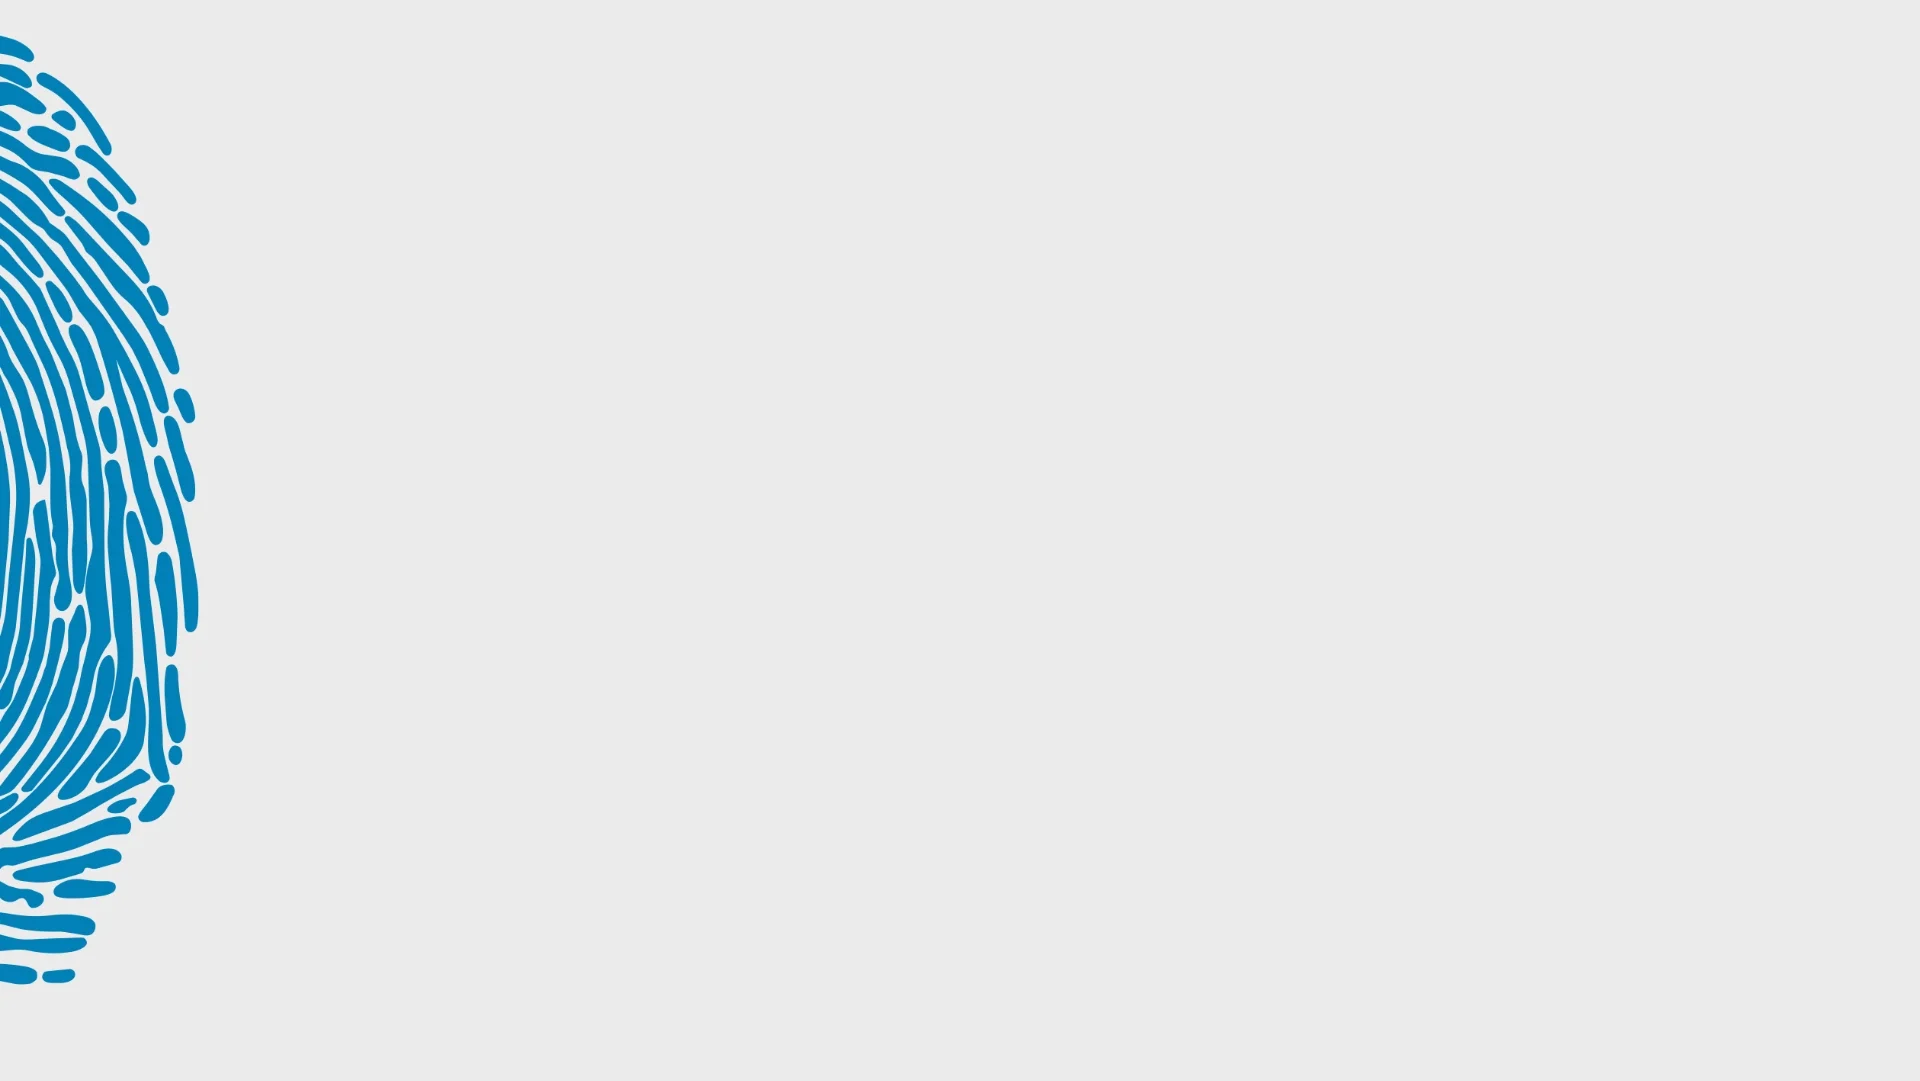
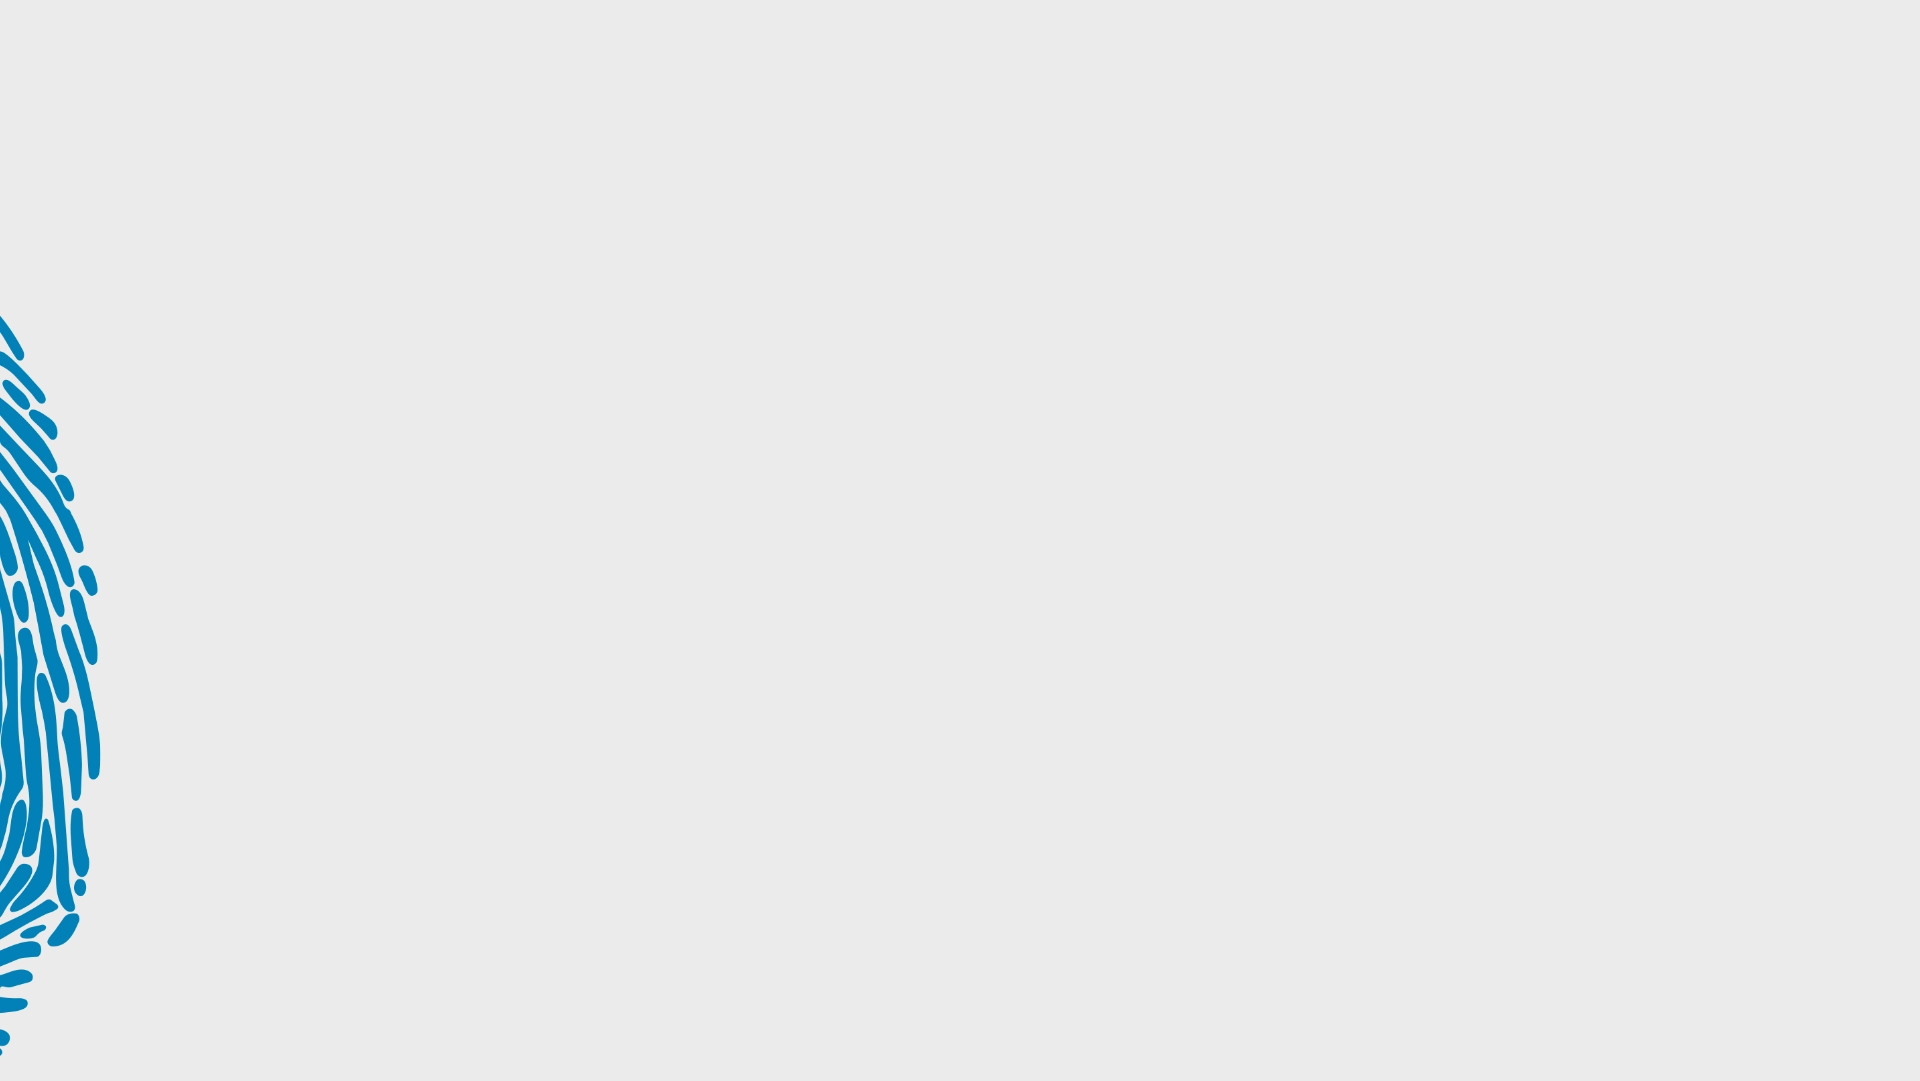
v6

Changed region(s): [[0.0, 0.0305, 0.125, 0.9463]]

diff --git a/index.html b/index.html
@@ -4,7 +4,7 @@
     <meta charset="UTF-8">
     <meta name="viewport" content="width=device-width, initial-scale=1.0">
     <title>FliParaíba</title>
-    <link rel="stylesheet" href="style.css?v=20261105-1">
+    <link rel="stylesheet" href="style.css?v=20261106-1">
     <link rel="stylesheet" href="mobile.css?v=20261105-1">
 
 <!--FONT AWESOME-->
@@ -20,7 +20,7 @@
                 <li class="nav-item"><a href="#autores"><i class="fa-solid fa-book" aria-hidden="true"></i><span>AUTORES</span></a></li>
                 <li class="nav-item"><a href="#mesas"><i class="fa-brands fa-discourse"></i><span>MESAS</span></a></li>
                 <li class="nav-item"><a href="#shows"><i class="fa-solid fa-music" aria-hidden="true"></i><span>SHOWS</span></a></li>
-                <li class="nav-item"><a href="#secao-05"><i class="fa-solid fa-user" aria-hidden="true"></i><span>FLI Paraíba</span></a></li>
+                <li class="nav-item"><a href="#secao-05"><i class="fa-solid fa-user" aria-hidden="true"></i><span>FLIParaíba</span></a></li>
             </ul>
         </nav>
     </header>

diff --git a/style.css b/style.css
@@ -166,11 +166,12 @@ header {
 }
 
 .autores {
-    z-index: 3;
+    z-index: 5;
     min-height: 100vh;
+    min-height: 100svh;
     padding: calc(clamp(72px, 7.2vw, 138px) + var(--curtain-overlap)) 20px 88px;
     overflow: hidden;
-    background: #702b91 url("imgs/bg_autores.webp") left center / cover no-repeat;
+    background: #702b91 url("imgs/bg_autores.webp") right top / auto 100vh repeat-y;
     color: #fff;
 }
 
